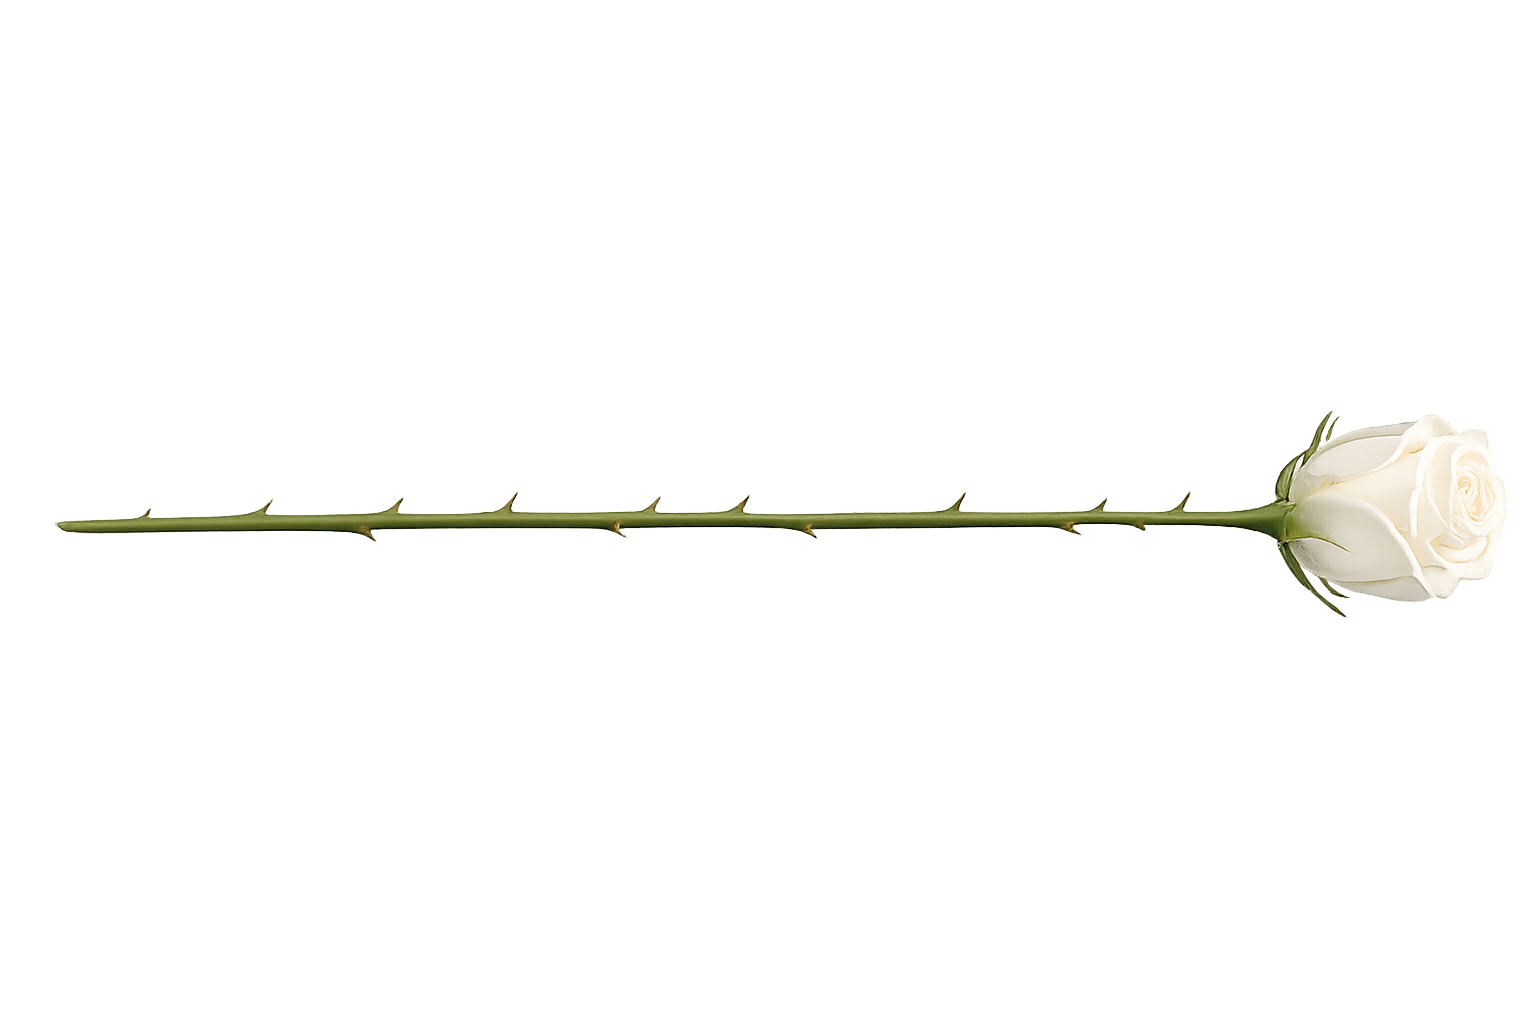
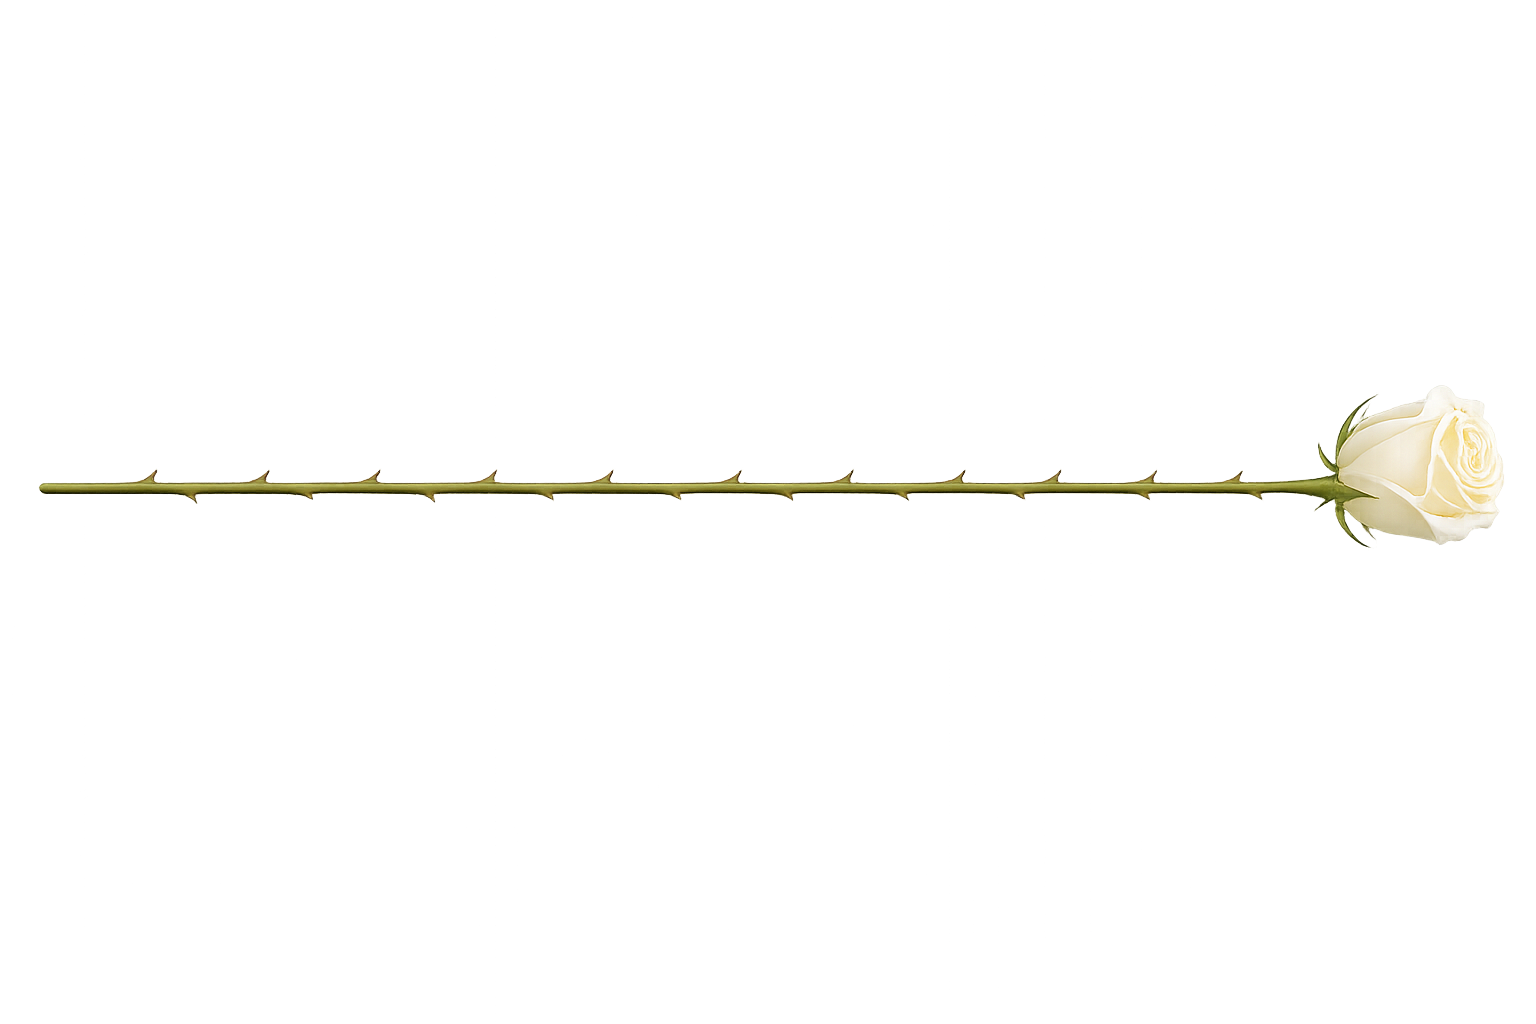
up

Changed region(s): [[0.0312, 0.375, 1.0, 0.5938]]

diff --git a/style.css b/style.css
@@ -8,7 +8,7 @@
 html, body {
     height: 100%;
     font-family: 'Segoe UI', Tahoma, Geneva, Verdana, sans-serif;
-    background-color: #f9f7f4;
+    background-color: #ececec;
     color: #333;
 }
 
@@ -29,7 +29,7 @@ html, body {
     width: 100%;
     height: 100%;
     display: flex;
-    align-items: center;
+    align-items: flex-end;
     justify-content: center;
     padding: 0;
     gap: 0;
@@ -42,10 +42,8 @@ html, body {
     display: flex;
     align-items: center;
     justify-content: flex-end;
-    position: absolute;
-    left: 8px;
-    top: 50%;
-    transform: translateY(-50%);
+    align-self: center;
+    padding-right: 1rem;
     z-index: 10;
 }
 
@@ -62,18 +60,18 @@ html, body {
 
 .home-center {
     display: flex;
-    align-items: center;
+    align-items: flex-end;
     justify-content: center;
-    flex: 1;
     height: 100%;
 }
 
 .home-rose {
     max-width: 100%;
-    width: 600px;
-    height: 100%;
+    width: 500px;
+    height: 90vh;
     object-fit: contain;
-    object-position: center;
+    object-position: bottom;
+    margin-bottom: -13vh;
 }
 
 .home-right {
@@ -81,10 +79,8 @@ html, body {
     align-items: center;
     justify-content: flex-start;
     flex-direction: column;
-    position: absolute;
-    right: 8px;
-    top: 50%;
-    transform: translateY(-50%);
+    align-self: center;
+    padding-left: 1rem;
     z-index: 10;
 }
 
@@ -124,27 +120,31 @@ html, body {
 
 /* Rose Navigation Bar */
 .rose-navbar {
-    background-color: #ffffff;
+    background: #ececec;
     padding: 1.5rem 2rem;
-    border-bottom: 1px solid #e8e3dd;
+    border-bottom: none;
     position: sticky;
     top: 0;
     z-index: 100;
+    overflow: visible;
 }
 
 .navbar-container {
     max-width: 1400px;
     margin: 0 auto;
-    display: grid;
-    grid-template-columns: 150px 1fr 300px;
+    display: flex;
     align-items: center;
+    justify-content: center;
     gap: 2rem;
+    position: relative;
 }
 
 .navbar-logo {
     text-decoration: none;
     display: flex;
     align-items: center;
+    position: absolute;
+    left: 2rem;
 }
 
 .logo-text {
@@ -169,27 +169,36 @@ html, body {
 }
 
 .rose-stem-nav {
-    max-width: 100%;
+    position: absolute;
+    left: -290px;
+    right: 0;
+    top: 50%;
+    transform: translateY(-38%);
+    width: calc(100% - 130px);
     height: auto;
+    max-height: 1600px;
     object-fit: contain;
+    object-position: right center;
+    pointer-events: none;
 }
 
 .navbar-menu {
     display: flex;
-    justify-content: flex-end;
+    justify-content: center;
     gap: 2.5rem;
     list-style: none;
 }
 
 .navbar-menu a {
-    font-size: 0.9rem;
-    color: #a67c52;
+    font-size: 1rem;
+    color: #666;
     text-decoration: none;
-    letter-spacing: 0.05rem;
-    font-weight: 600;
+    letter-spacing: 0.08rem;
+    font-weight: 400;
+    font-family: 'Georgia', serif;
     transition: all 0.3s ease;
-    border-bottom: 2px solid transparent;
-    padding-bottom: 4px;
+    border-bottom: 1px solid #d4b896;
+    padding-bottom: 8px;
 }
 
 .navbar-menu a:hover {
@@ -198,6 +207,11 @@ html, body {
 }
 
 /* Collection Section */
+.collection-page {
+    background: #ececec;
+    min-height: 100vh;
+}
+
 .collection-section {
     max-width: 1400px;
     margin: 0 auto;
